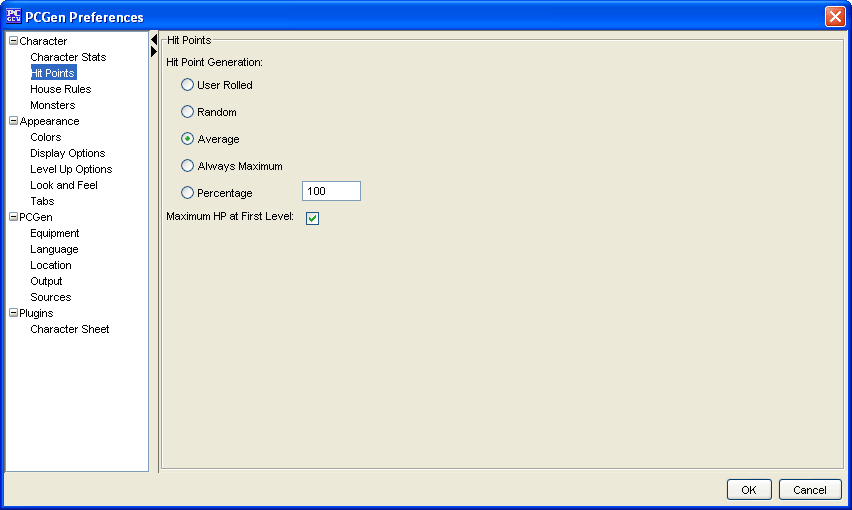
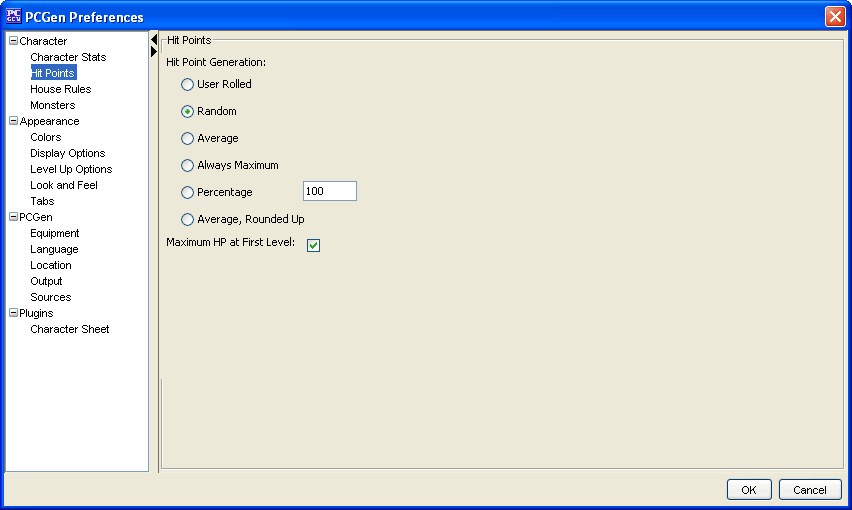
[ 1696529 ] Update screen shots for 5.12, missed a few of the new preferences
git-svn-id: svn+ssh://svn.code.sf.net/p/pcgen/code/Trunk@3184 ef53c05b-3124-4d59-ae7d-fe3273f42be7

diff --git a/docs/menupages/settings/character/characterhitpointsoption.html b/docs/menupages/settings/character/characterhitpointsoption.html
@@ -35,14 +35,17 @@
 		<p>The <strong>Random</strong> option will present a random hitpoint total between 1 and the hit die 
 		type of the class/race when a class level is added. The user can modify this total if desired.</p>
 		
-		<p>The <strong>Always maximum</strong> option will always give the maximum hit points as defined by 
+		<p>The <strong>Average</strong> option will always give the average hit points as defined by 
 		the hit die type of the class/race.</p>
 		
-		<p>The <strong>Average</strong> option will always give the average hit points as defined by 
+		<p>The <strong>Always maximum</strong> option will always give the maximum hit points as defined by 
 		the hit die type of the class/race.</p>
 		
 		<p>The <strong>Percentage</strong> option allows the user to enter a percentage of the maximum hit points as defined by 
 		the hit die type of the class/race.</p>
+		
+		<p>The <strong>Average, Rounded Up</strong> option will always give the average hit points as defined by 
+		the hit die type of the class/race rounded up if the average results in a fraction.</p>
 		
 		<p>The <strong>Max Hp at first level </strong>option gives you maximum Hit Points at first level when 
 		you are creating your character.</p>

diff --git a/docs/menupages/settings/appearance/appearancelevelup.html b/docs/menupages/settings/appearance/appearancelevelup.html
@@ -28,7 +28,6 @@
 		<p>The <strong>Level Up Options</strong> menu option will allow you to set options for:</p>
 		<ul>
 			<li><strong>Show HP Dialog at Level Up</strong>. Shows the HP dialog box when you level up.</li>
-			<li><strong>Show Feat Dialog at Level Up</strong>. Shows the Feat dialog box as appropriate when you level up.</li>
 			<li><strong>Show Stat Dialog at Level Up</strong>. Shows the Stat dialog box as appropriate when you level up.</li>
 			<li><strong>Show abilities warning for each new character</strong>. Shows a reminder to set your abilities before leveling up.</li>
 			<li><strong>Enforce spending of skill points and feats before leveling up</strong>. 
